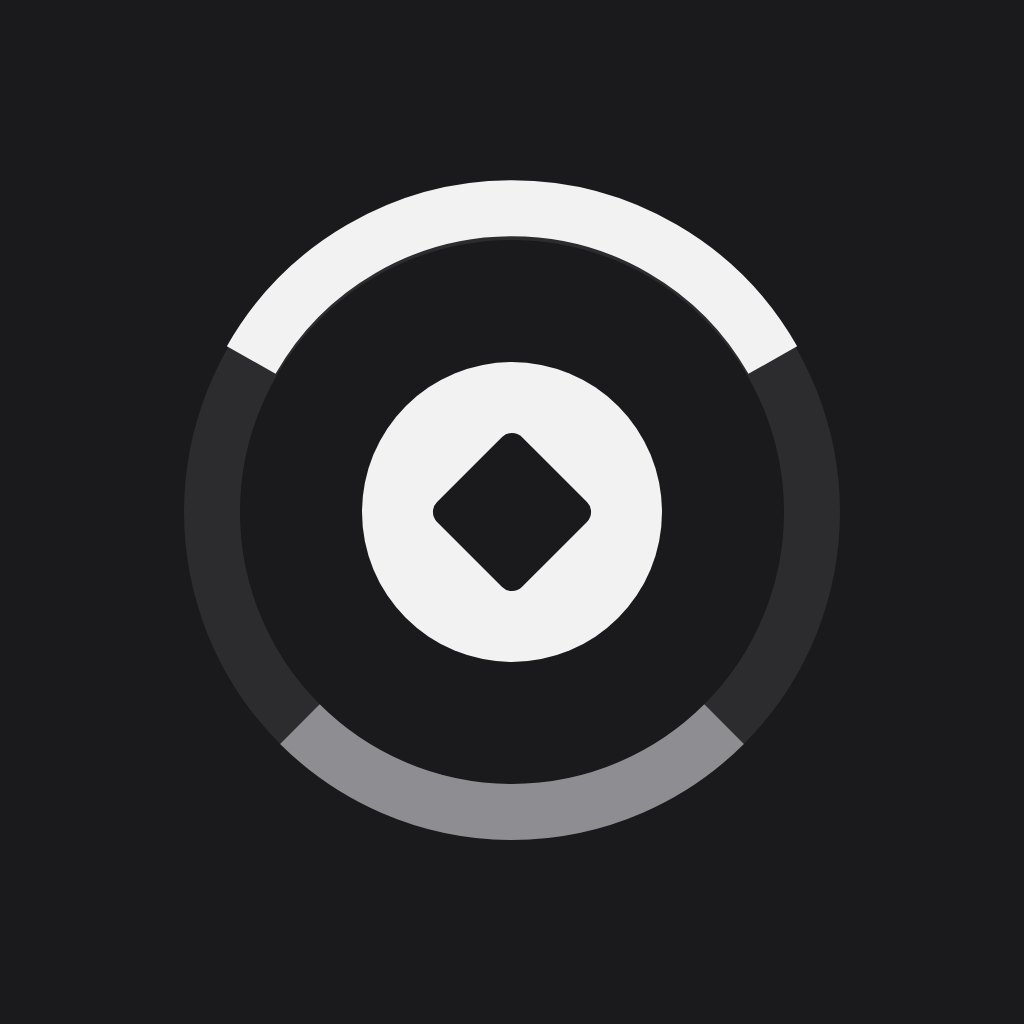
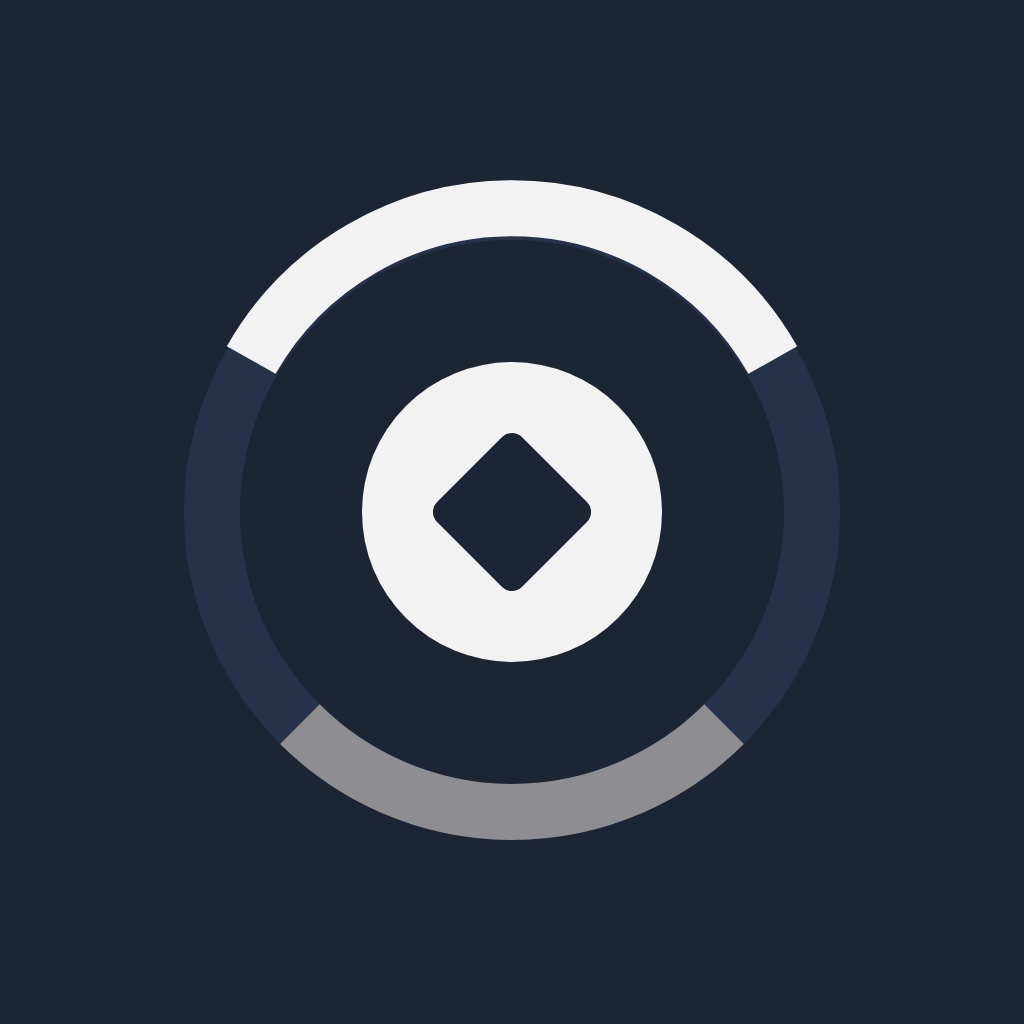
1.5.2：沉浸式全屏（隐藏状态栏/导航栏，滑动临时呼出，刘海区域铺满，onResume/获得焦点时重新隐藏；去掉状态栏留白）；官方 Screeps 蓝 #5973FF 作为主色（按钮/选中/进度条/标题 World），游戏内能量保持黄色；图标背景深蓝灰 #1C2533

diff --git a/www/style.css b/www/style.css
@@ -1,7 +1,7 @@
 /* 设计变量：固定 px，不跟随系统字体缩放 */
 :root{--fs-xs:11px;--fs-s:13px;--fs-m:15px;--fs-l:18px;--fs-xl:34px;--sp-1:4px;--sp-2:8px;--sp-3:12px;--sp-4:16px;--r-s:6px;--r-m:10px;--r-l:14px;
 --bg:#0a0a0a;--panel:#1b1e25;--btn:#2a2f3a;--btn-on:#2e7d4f;--primary:#3b82f6;--danger:#8b2b2b;--text:#e8e8e8;--muted:#8a8f99;--accent:#ffe56d;
---top:env(safe-area-inset-top,0px);--bot:env(safe-area-inset-bottom,0px)}
+--top:0px;--bot:0px} /* 沉浸式全屏：不再为状态栏/导航栏留白 */
 *{box-sizing:border-box;-webkit-tap-highlight-color:transparent}
 html{-webkit-text-size-adjust:100%;text-size-adjust:100%}
 html,body{margin:0;height:100%;overflow:hidden;background:var(--bg);color:var(--text);font-family:system-ui,-apple-system,"PingFang SC","Noto Sans CJK SC",sans-serif;font-size:var(--fs-m);touch-action:none;user-select:none}
@@ -14,7 +14,7 @@ button{font:inherit;color:inherit;border:0;cursor:pointer}
 /* HUD：单行紧凑，位于状态栏下方 */
 #hud{position:fixed;left:0;right:0;top:0;padding:calc(var(--top) + var(--sp-1)) var(--sp-2) var(--sp-1);display:flex;gap:var(--sp-1);align-items:center;flex-wrap:nowrap;overflow:hidden;white-space:nowrap;background:#000c;pointer-events:none;z-index:5;font-size:var(--fs-s)}
 .chip{display:inline-flex;align-items:center;gap:3px;background:#ffffff14;border-radius:var(--r-m);padding:2px 7px;flex:0 1 auto;min-width:0;overflow:hidden;text-overflow:ellipsis}
-.chip b{color:var(--accent);font-weight:600}.chip .ic{font-size:14px}
+.chip b{color:#fff;}.chip.en b{color:#ffe56d;}.chip b{font-weight:600}.chip .ic{font-size:14px}
 /* 底栏：图标在上、文字在下 */
 #bar{position:fixed;left:0;right:0;bottom:0;display:flex;gap:var(--sp-1);padding:var(--sp-1) var(--sp-2) calc(var(--sp-1) + var(--bot));background:#0d0f13ee;border-top:1px solid #ffffff12;z-index:6}
 #bar button{flex:1 1 0;min-width:0;height:52px;display:flex;flex-direction:column;align-items:center;justify-content:center;gap:2px;background:transparent;border-radius:var(--r-m);color:#cfd3da;font-size:var(--fs-xs)}
@@ -110,16 +110,16 @@ pre.mem{margin:var(--sp-1) 0 0;max-height:120px;overflow:auto;background:#0008;p
 #navL{left:4px;top:50%;transform:translateY(-50%);writing-mode:vertical-rl}#navR{right:4px;top:50%;transform:translateY(-50%);writing-mode:vertical-rl}
 #panel{position:fixed;left:0;right:0;bottom:calc(60px + var(--bot));height:52%;background:#181818f2;border-top:1px solid #333;z-index:8;display:flex;flex-direction:column;color:#ddd}
 #panel.hidden{display:none}.pnHead{display:flex;align-items:center;border-bottom:1px solid #2c2c2c}.pnTabs{flex:1;display:flex}
-.pnTabs button{flex:1;background:none;border:0;border-bottom:2px solid transparent;border-radius:0;color:#999;font-size:14px;padding:10px 0}.pnTabs button.on{color:#fff;border-bottom-color:#6dc1ff}
+.pnTabs button{flex:1;background:none;border:0;border-bottom:2px solid transparent;border-radius:0;color:#999;font-size:14px;padding:10px 0}.pnTabs button.on{color:#fff;border-bottom-color:#5973ff}
 #pnBody{flex:1;overflow:auto;padding:8px 12px;font-size:13px}#pnBody.hidden{display:none}
 #pnConsole{flex:1;display:flex;flex-direction:column;min-height:0}#pnConsole.hidden{display:none}
 .cnFilter{display:flex;gap:6px;padding:6px 8px}.cnFilter input{flex:1;min-width:0}.cnFilter button{padding:4px 10px;font-size:12px;background:#262626}.cnFilter button.on{background:#3a4a5a;color:#fff}
 #cnOut{flex:1;overflow:auto;font:12px/1.45 monospace;padding:4px 10px;white-space:pre-wrap;user-select:text}
-#cnOut .err{color:#ff7b7b}#cnOut .cmd{color:#6dc1ff}#cnOut .res{color:#b5e48c}
+#cnOut .err{color:#ff7b7b}#cnOut .cmd{color:#5973ff}#cnOut .res{color:#b5e48c}
 .cnIn{display:flex;gap:6px;padding:6px 8px;border-top:1px solid #2c2c2c}.cnIn input{flex:1;min-width:0;font-family:monospace}
 #panel input{background:#0f0f0f;border:1px solid #333;color:#eee;border-radius:4px;padding:6px 8px;font-size:13px}
 .ri .kv{display:flex;justify-content:space-between;padding:5px 0;border-bottom:1px solid #242424}.ri .kv .k{color:#888}.ri h4{margin:10px 0 4px;font-size:12px;color:#888;font-weight:500}
-.ri .bar{height:5px;background:#2b2b2b;border-radius:3px;margin:4px 0 2px}.ri .bar i{display:block;height:100%;background:#ffe56d;border-radius:3px}
+.ri .bar{height:5px;background:#2b2b2b;border-radius:3px;margin:4px 0 2px}.ri .bar i{display:block;height:100%;background:#5973ff;border-radius:3px}
 .mem details{margin-left:12px}.mem summary{cursor:pointer;color:#9cdcfe}.mem .mk{color:#9cdcfe}.mem .mv{color:#ce9178}.mem .ln{margin-left:12px;font:12px monospace;white-space:nowrap}
 .lyr label{display:flex;justify-content:space-between;align-items:center;padding:10px 0;border-bottom:1px solid #242424}
 /* 1.4.2 全屏积木列表 + 夜间模式 */
@@ -135,7 +135,7 @@ pre.mem{margin:var(--sp-1) 0 0;max-height:120px;overflow:auto;background:#0008;p
 #btnRun{position:relative}#btnRun[data-speed]::after{content:attr(data-speed);position:absolute;top:4px;right:calc(50% - 22px);font-size:9px;color:#8b93a1}
 #speedPop{position:fixed;left:8px;bottom:calc(68px + var(--bot));display:flex;gap:6px;background:#14171d;border:1px solid #ffffff1a;border-radius:6px;padding:6px;z-index:9}
 #speedPop button{width:48px;height:32px;border:0;border-radius:4px;background:#2a2f3a;color:#e6e6e6;font-size:13px}
-#speedPop button.on{background:#ffe066;color:#111}
+#speedPop button.on{background:#5973ff;color:#fff}
 /* v1.5.0 横屏布局（约 915×412）：面板改为右侧抽屉，弹层限高，外壳页面居中限宽 */
 .ri .riHead{display:flex;align-items:center;gap:10px;margin:2px 0 8px}.ri .riName{font:600 18px sans-serif;color:#fff}.ri .riSub{font-size:12px;color:#999}
 .ri .pdot{width:28px;height:28px;border-radius:50%;display:inline-block}.ri .riBtns{display:flex;gap:8px;margin-bottom:6px}.ri .riBtns button{padding:6px 12px;font-size:13px}.ri .note{color:#888;font-size:12px}

diff --git a/www/shell.css b/www/shell.css
@@ -1,12 +1,12 @@
 /* Screeps World 应用外壳 + 全局扁平按钮规范（参考 screeps.com 网页客户端）
    纯色、1px 细边框、无渐变无阴影、小号大写标签、单行不换行 */
-:root{--sw-bg:#1e1e1e;--sw-panel:#2b2b2b;--sw-row:#262626;--sw-line:#3a3a3a;--sw-text:#d8d8d8;--sw-muted:#8c8c8c;--sw-acc:#ffe56d;--sw-blue:#87bdee;--sw-red:#d65d5d;
+:root{--sw-bg:#1e1e1e;--sw-panel:#2b2b2b;--sw-row:#262626;--sw-line:#3a3a3a;--sw-text:#d8d8d8;--sw-muted:#8c8c8c;--sw-acc:#5973ff;--sw-acc-dn:#4a62db;--sw-blue:#87bdee;--sw-red:#d65d5d;
   --panel:var(--sw-panel);--btn:#333;--primary:var(--sw-acc);--danger:#5a2a2a;--muted:var(--sw-muted);--accent:var(--sw-acc)}
 /* ---------- 全局按钮 / 面板 ---------- */
 .panel{background:var(--sw-panel)!important;border:1px solid var(--sw-line)!important;border-radius:4px!important}
 .pTitle{font-size:12px!important;font-weight:600;letter-spacing:1.5px;text-transform:uppercase;color:var(--sw-muted);text-align:left!important;border-bottom:1px solid var(--sw-line);padding-bottom:8px}
 .panel button,#upd button,.shDlg button{height:40px!important;border-radius:3px!important;background:#333!important;border:1px solid #444!important;color:var(--sw-text)!important;font-size:14px!important;white-space:nowrap;box-shadow:none!important;background-image:none!important}
-.panel button.primary,#upd #updGo,.shDlg .primary,.primary{background:var(--sw-acc)!important;border-color:var(--sw-acc)!important;color:#1e1e1e!important;font-weight:600}
+.panel button.primary,#upd #updGo,.shDlg .primary,.primary{background:var(--sw-acc)!important;border-color:var(--sw-acc)!important;color:#fff!important;font-weight:600}
 .panel button.danger{background:#3a2626!important;border-color:#6a3434!important;color:#f0b0b0!important}
 .panel button.ghost{background:transparent!important;border-color:transparent!important;color:var(--sw-muted)!important}
 .panel input,.fi{height:40px;border-radius:3px!important;border:1px solid var(--sw-line)!important;background:#1a1a1a!important;color:var(--sw-text)!important;padding:0 10px;font-size:14px;width:100%;user-select:text}
@@ -15,7 +15,7 @@
 /* 底栏 */
 #bar{background:#1e1e1e!important;border-top:1px solid var(--sw-line)!important}
 #bar button{border-radius:3px!important;color:#bdbdbd!important;font-size:11px!important}
-#bar button.on{color:var(--sw-acc)!important;background:#ffe56d1a!important}
+#bar button.on{color:var(--sw-acc)!important;background:#5973ff22!important}
 #hud{background:#1e1e1ee6!important;border-bottom:1px solid var(--sw-line)}
 .chip{border-radius:3px!important;background:#ffffff0f!important}
 #inspect{background:#2b2b2bf2!important;border:1px solid var(--sw-line)!important;border-radius:4px!important}
@@ -49,8 +49,8 @@
 .menu{display:flex;flex-direction:column;gap:8px;margin-top:auto}
 .menu button{display:flex;align-items:center;gap:12px;height:50px;padding:0 16px;border-radius:3px;background:var(--sw-panel)!important;border:1px solid var(--sw-line)!important;font-size:15px;white-space:nowrap}
 .menu button .ic{font-size:20px;color:var(--sw-blue)}
-.menu button.primary{background:var(--sw-acc)!important;border-color:var(--sw-acc)!important;color:#1e1e1e!important;font-weight:700;justify-content:center;letter-spacing:2px}
-.menu button.primary .ic{color:#1e1e1e}
+.menu button.primary{background:var(--sw-acc)!important;border-color:var(--sw-acc)!important;color:#fff!important;font-weight:700;justify-content:center;letter-spacing:2px}
+.menu button.primary .ic{color:#fff}
 .foot{text-align:center;font-size:10px;letter-spacing:1.5px;color:#666;white-space:nowrap}
 /* 个人中心 */
 .prof{display:flex;align-items:center;gap:14px;margin-top:14px;padding:14px;background:var(--sw-panel);border:1px solid var(--sw-line);border-radius:4px}
@@ -86,9 +86,9 @@
 .acct .acHead{display:flex;align-items:center;gap:14px;padding:14px 2px 12px}
 .acct .acHead .pc{flex:1;min-width:0}.acct .pn{font-size:20px;font-weight:600;color:#eee;white-space:nowrap;overflow:hidden;text-overflow:ellipsis}
 .gcl{display:flex;align-items:center;gap:8px;margin-top:8px;font-size:12px;color:#999;white-space:nowrap}.gcl b{color:#fff}
-.gbar,.rbar{flex:1;height:6px;background:#2b2b2b;border-radius:3px;overflow:hidden}.gbar i,.rbar i{display:block;height:100%;background:#6dc1ff}
+.gbar,.rbar{flex:1;height:6px;background:#2b2b2b;border-radius:3px;overflow:hidden}.gbar i,.rbar i{display:block;height:100%;background:#5973ff}
 .tabs{display:flex;border-bottom:1px solid #2e2e2e;margin:4px 0 12px}.tab{flex:1;background:none;border:0;border-bottom:2px solid transparent;color:#999;font-size:14px;padding:10px 0;border-radius:0}
-.tab.on{color:#fff!important;border-bottom:2px solid #6dc1ff!important}
+.tab.on{color:#fff!important;border-bottom:2px solid #5973ff!important}
 .grid .cell .k .ic{display:inline-block;width:12px;height:12px;margin-right:4px;vertical-align:-1px;opacity:.7}
 .rlist .rrow{display:grid;grid-template-columns:1fr auto;gap:6px 10px;background:#1e1e1e;padding:10px 12px;margin-bottom:6px;border-radius:4px}
 .rrow .rn{color:#eee;font-weight:600}.rrow .rl{color:#999;font-size:12px}.rrow .rbar{grid-column:1/3}.rrow .rs{grid-column:1/3;color:#888;font-size:12px}

diff --git a/www/main.js b/www/main.js
@@ -126,7 +126,7 @@ function applyCode() { if (mode === 'client') client && client.sendCode(code); e
 
 let _snap = null; // 单机/房主也用快照（字段与客户端一致：spawn.energy/cap 等）
 function view() { if (mode === 'client') return client?.view; if (!engine) return null; if (!_snap || _snap.time !== engine.w.time || _snap.S !== engine.w.S) _snap = engine.snapshot(); return _snap; }
-const chip = (ic, html) => `<span class="chip"><span class="ic">${icon(ic)}</span>${html}</span>`;
+const chip = (ic, html) => `<span class="chip${ic === 'bolt' ? ' en' : ''}"><span class="ic">${icon(ic)}</span>${html}</span>`;
 function stats() {
   const v = view(); let H;
   if (!v) H = chip('plug-connected', mode === 'client' ? '等待房主…' : '');
@@ -262,7 +262,6 @@ renderer.onTap = (x, y) => {
 $('insClose').onclick = () => { sel = null; renderer.select(null); $('inspect').classList.add('hidden'); };
 renderer.onTick = () => renderInspect();
 // 状态栏：不覆盖网页
-(function statusBar() { const C = window.Capacitor; if (!C?.isNativePlatform?.() || !C.registerPlugin) return; const S = C.registerPlugin('StatusBar'); S.setOverlaysWebView({ overlay: false }).catch(() => {}); S.setBackgroundColor({ color: '#0a0a0a' }).catch(() => {}); S.setStyle({ style: 'DARK' }).catch(() => {}); })();
 (function boot() { const host = $('editor'); host.classList.remove('hidden'); host.style.visibility = 'hidden'; initBlockly(); host.classList.add('hidden'); host.style.visibility = ''; loadEngine(); setRunUI(); })();
 document.addEventListener('visibilitychange', () => { if (document.hidden) save(); });
 requestAnimationFrame(loop);
@@ -328,7 +327,7 @@ function drawWorldMap() {
     if (st === 'close') { g.strokeStyle = 'rgba(255,255,255,.08)'; g.beginPath(); for (let i = -cs; i < cs; i += 5) { g.moveTo(x + i, y + cs); g.lineTo(x + i + cs, y); } g.save(); g.rect(x + 1, y + 1, cs - 2, cs - 2); g.clip(); g.stroke(); g.restore(); }
     if (wm.sel && wm.sel[0] === rx && wm.sel[1] === ry) { g.strokeStyle = '#fff'; g.lineWidth = 2; g.strokeRect(x + 2, y + 2, cs - 4, cs - 4); g.lineWidth = 1; }
     if (cs >= 30) { g.fillStyle = 'rgba(255,255,255,.5)'; g.font = Math.min(14, cs / 4) + 'px sans-serif'; g.fillText(roomNameXY(rx, ry), x + 3, y + 3 + Math.min(14, cs / 4)); if (o && d.players[o] && cs >= 50) { g.fillStyle = '#fff'; g.fillText(d.players[o].name, x + 3, y + cs - 6); } }
-    const [cx, cy] = renderer.curRoom(); if (!wm.pick && cx === rx && cy === ry) { g.strokeStyle = '#ffe56d'; g.setLineDash([4, 3]); g.strokeRect(x + 3, y + 3, cs - 6, cs - 6); g.setLineDash([]); }
+    const [cx, cy] = renderer.curRoom(); if (!wm.pick && cx === rx && cy === ry) { g.strokeStyle = '#5973ff'; g.setLineDash([4, 3]); g.strokeRect(x + 3, y + 3, cs - 6, cs - 6); g.setLineDash([]); }
   }
   const me = Object.keys(d.owned).filter(k => d.owned[k] === myPid).length, free = (() => { let n = 0; for (let ry = 0; ry < d.S; ry++) for (let rx = 0; rx < d.S; rx++) if (roomStatus(d.S, d.owned, rx, ry, myPid) === 'free') n++; return n; })();
   $('wmInfo').textContent = `${d.S}×${d.S} · 空闲 ${free} · 我的 ${me}`;

diff --git a/scripts/gen-icons.py b/scripts/gen-icons.py
@@ -1,7 +1,7 @@
 # 从 assets-art/icon.png 生成安卓启动图标（legacy/round/adaptive 前景）
 from PIL import Image, ImageDraw, ImageChops
 import os
-R='android-res'; BG=(26,26,28)
+R='android-res'; BG=(28,37,51)
 src=Image.open('assets-art/icon.png').convert('RGB').crop((24,24,1000,1000))
 diff=ImageChops.difference(src,Image.new('RGB',src.size,BG)).convert('L').point(lambda v:255 if v>60 else 0)
 fg=src.copy(); fg.putalpha(diff); bbox=diff.point(lambda v:255 if v>128 else 0).getbbox()
